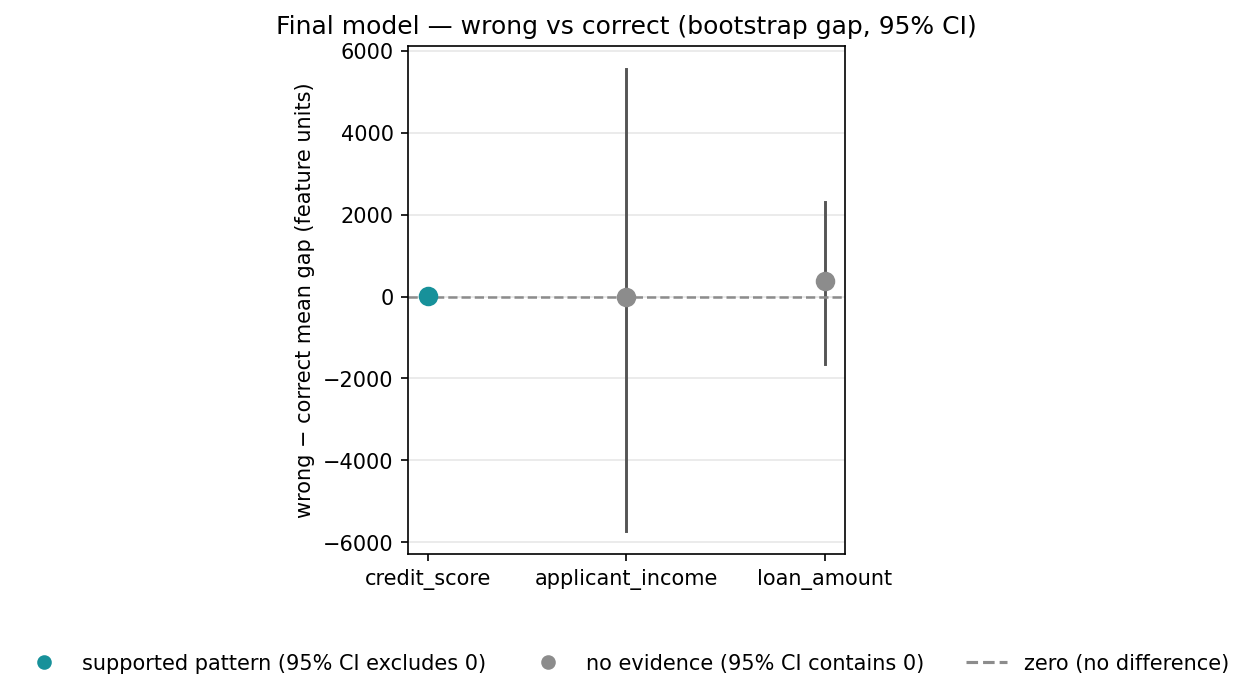
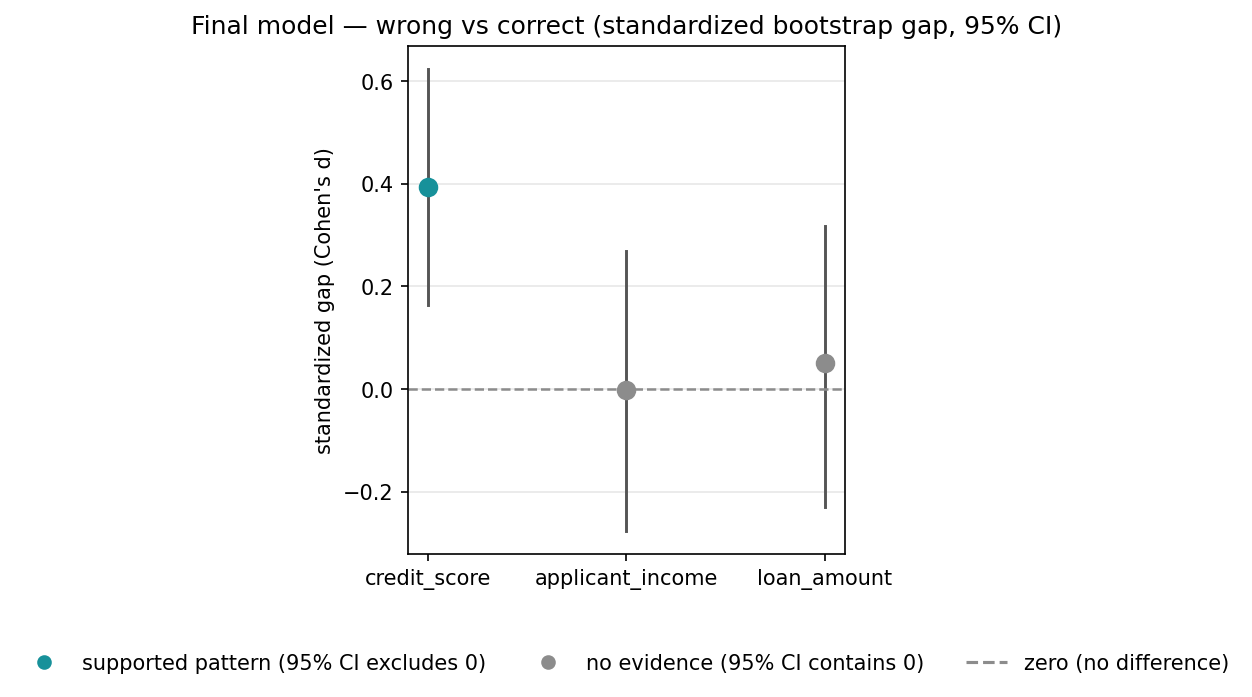
fix: tighten statistical language + calibration claims; correct calibration bin counts; standardize error-analysis chart; reframe RF tuning rationale
Independent audit of the submission (fresh re-derivation, not the PR reviewer):
- calibration bin counts were wrongly stated as '~48 rows per bin'; actual bins this run are
  28/44/40/46/82 (uneven) — corrected in defense Q4, report, technical_summary, notebook.
- report/technical_summary said probabilities are 'usable directly for risk pricing'; softened to
  'supports coarse risk-tiering, not production pricing' to match the defense's own stance.
- 'the two models separate classes equally well' and 'genuinely misreads' were statistical
  overstatements → 'no statistically significant evidence of an AUC difference' and
  'supported pattern within this held-out test sample'.
- error-analysis chart now shows standardized gap (Cohen's d): credit_score d=+0.39 CI [+0.16,+0.62]
  visible vs income/loan ~0, instead of raw units where income CI ±5600 buried the finding.
- RF n_estimators=200 rationale now explicitly notes 100 had the highest observed CV but the
  100→500 spread (~0.0013) is inside CV noise.
- notebook freshly re-run: 165/165 checks green; model_metrics.json + root charts + loans.csv
  byte-identical (determinism preserved); only charts/chart_error_analysis.png intentionally changed.

diff --git a/evaluation_report.md b/evaluation_report.md
@@ -120,7 +120,7 @@ feature-by-feature, with a bootstrap CI on each mean difference (2000 resamples)
 
 | feature | wrong-mean | correct-mean | diff CI | conclusion |
 |---------|-----------|--------------|---------|------------|
-| credit_score | 666.2 | 643.2 | [+9.53, +36.47] | **CI excludes 0** → the forest genuinely misreads *higher-credit-score* applicants (the DGP places some "good" scores just above the boundary) |
+| credit_score | 666.2 | 643.2 | [+9.53, +36.47] | **Within this held-out test sample, misclassified applicants had significantly higher credit scores on average** (the DGP places some "good" scores just above the boundary) |
 | applicant_income | 55879 | 55901 | [−5716, +5554] | plausible noise |
 | loan_amount | 15995 | 15624 | [−1659, +2304] | plausible noise |
 
@@ -141,8 +141,9 @@ Uniform 5-bin calibration of the forest's probabilities on the held-out test:
 | 4 | 0.71 | 0.70 | 0.014 |
 | 5 | 0.92 | 0.90 | 0.022 |
 
-Max deviation ~3.6 points — **well-calibrated**; probabilities are usable directly for risk
-thresholding & pricing, not just ranking. See `charts/chart_calibration.png` and (bonus) the ROC
+Max deviation ~3.6 points — an encouraging result, but measured on one synthetic 240-row test
+draw: it supports using these probabilities for **coarse risk-tiering** (reject / watch / price-up), not
+for production-precision pricing. See `charts/chart_calibration.png` and (bonus) the ROC
 curves in `charts/chart_roc_curves.png`.
 
 ## 6. Bonus charts (beyond the minimum)
@@ -185,7 +186,8 @@ content touches the image border.
    LR's AUC edge (0.8448 vs 0.8249) *not significant* (bootstrap CI crosses zero).
 4. **Errors are not random** — a statistically-supported pattern: the forest misclassifies
    high-credit-score applicants (CI [+9.5, +36.5] excludes 0) and `Self-Employed` rows.
-5. **Probabilities are trustworthy** — calibration within ~3.6 points of perfect across 5 bins.
+5. **Calibration is encouraging within this test sample** — max bin gap ~3.6 points across 5 bins
+   (not a production-readiness claim; see the honest limitation).
 
 ## 8.5 One honest limitation
 

diff --git a/defense_answers.md b/defense_answers.md
@@ -27,9 +27,9 @@ recall 0.8333 vs 0.8264.
 
 Logistic's only lead is **ROC-AUC** (0.8448 vs 0.8249). Is that lead real? I bootstrapped the
 difference on the test set (2000 resamples, seed 42): **95% CI of (RF − LR) AUC = [−0.0487, +0.0086]**,
-which **crosses zero**. So at n = 240 the two models separate classes *equally well*; the AUC gap is
-**not statistically significant**. With indistinguishable discrimination, the model that is better on
-the decision-relevant metrics wins → `random_forest`.
+which **crosses zero**: the test set provides no statistically significant evidence that the two
+models' AUCs differ. With no significant discrimination gap on this sample, the model that is better
+on the decision-relevant metrics wins → `random_forest`.
 
 So the loaded comparison in the question is the actual trap: LR is the safe default reflex, but a
 default reflex is not an answer — the data and the decision metric are. The forest also prices risk
@@ -113,8 +113,8 @@ frequency.
 
 So **yes, with two conditions** — I would trust these probabilities to set **coarse risk tiers**
 (bucket "reject", "watch", "price-up"), because a ±3-point error cannot flip a 0.15 into a 0.65. I
-would **not** trust them to set fine-grain risk premia to the basis point, for three reasons: (1)
-each bin here holds only ~48 test rows, so the extreme-bin figures carry wide sampling uncertainty;
+would **not** trust them to set fine-grain risk premia to the basis point, for three reasons: (1) in this run the five uniform bins hold 28, 44, 40, 46 and 82 test rows
+respectively — they are uneven, so the smallest bins carry the widest sampling uncertainty;
 (2) calibration was measured on one draw of a synthetic population — it is a snapshot, not a
 guarantee, so a production loan desk would need ongoing recalibration on real repayment labels; (3)
 my error analysis shows the biggest miss is exactly the *high-credit-score* segment (CI

diff --git a/technical_summary.md b/technical_summary.md
@@ -94,7 +94,9 @@ correct); the credit-score finding is the only statistically-supported one.
 ## 9. Calibration (final model)
 
 Uniform 5-bin on the held-out test; max gap **3.6 points** (bins: 0.036 / 0.031 / 0.001 / 0.014 / 0.022).
-The forest's probabilities are usable directly for risk pricing, not only for ranking.
+The bins are unevenly sized in this draw (28 / 44 / 40 / 46 / 82 rows), so the smallest bin estimates
+carry more sampling noise. The probabilities are well-calibrated enough for coarse risk-tiering on this
+dataset; they are **not** production-ready interest-rate inputs without recalibration on real labels.
 
 ## 10. Reproducibility & file map
 
